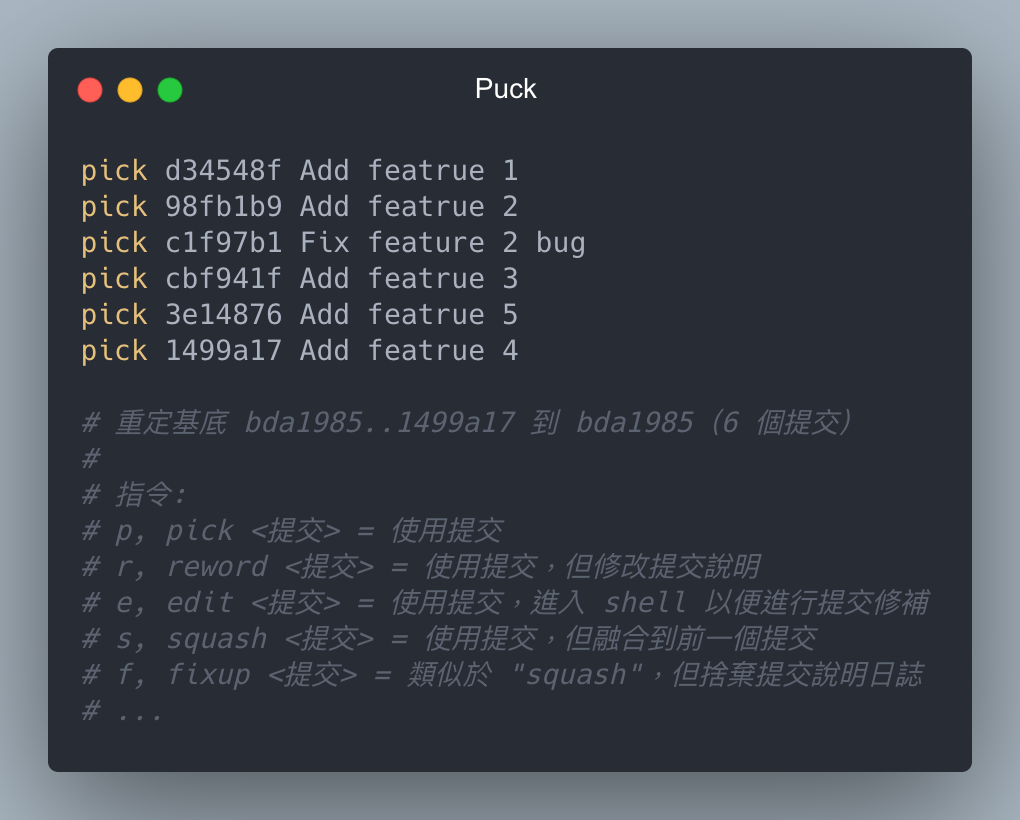
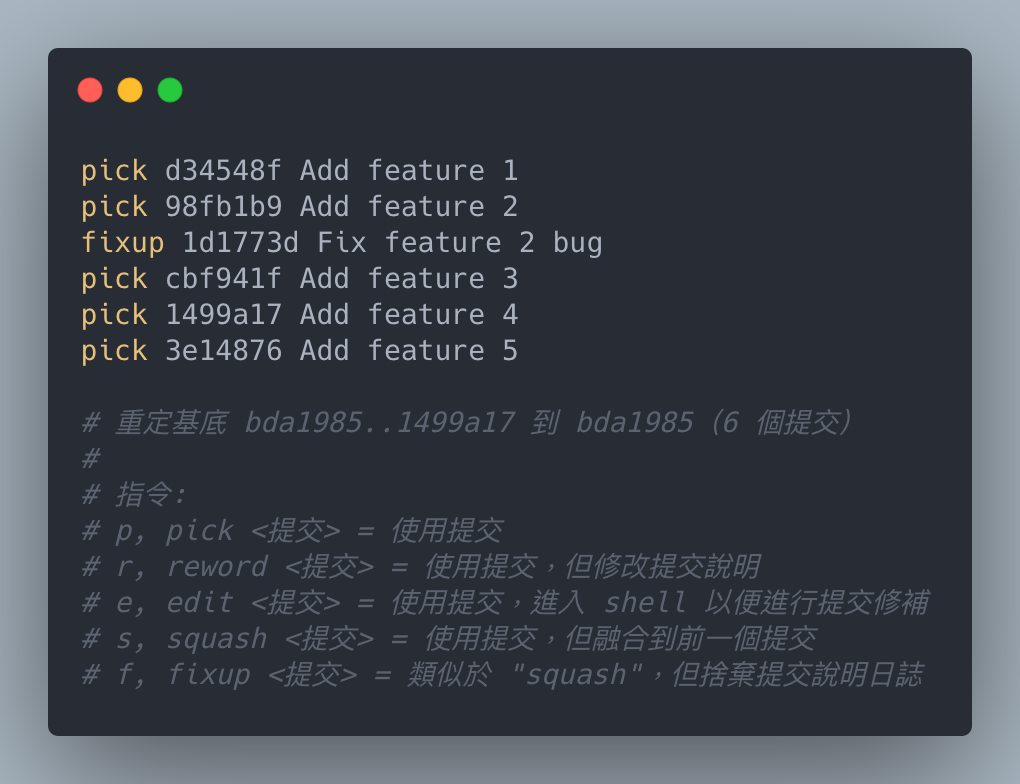
修復文章錯誤

diff --git a/content/post/2021/Use-Git-Rebase-Interactive-Mode-finishing-Commit.md b/content/post/2021/Use-Git-Rebase-Interactive-Mode-finishing-Commit.md
@@ -55,11 +55,11 @@ git rebase -i <起始 Commit>
 下半部有註解的部分，是一些指令的簡介及縮寫，使用時就可以直接參考不用去特別記它的指令及用法。
 
 ```shell
-pick d34548f Add featrue 1
-pick 98fb1b9 Add featrue 2
-pick cbf941f Add featrue 3
-pick 1499a17 Add featrue 4
-pick 3e14876 Add featrue 5
+pick d34548f Add feature 1
+pick 98fb1b9 Add feature 2
+pick cbf941f Add feature 3
+pick 1499a17 Add feature 4
+pick 3e14876 Add feature 5
 
 # 重定基底 bda1985..1499a17 到 bda1985（6 個提交）
 #
@@ -106,22 +106,22 @@ pick 3e14876 Add featrue 5
 原始的 Commit 如下：
 
 ```shell
-* c5300e9 2021-07-19 | Add featrue 6 (HEAD -> master)
-* 68e1e4c 2021-07-19 | Add featrue 5-1
-* 082a95c 2021-07-19 | Add featrue 4
-* 2ebbe30 2021-07-19 | Add featrue 5
-* e419862 2021-07-19 | Add featrue 3
-* 1d1773d 2021-07-19 | Fix featrue 2 bug
-* cfe6102 2021-07-19 | Add featrue 2
-* d34548f 2021-07-19 | Add featrue 1
-* bda1985 2021-07-19 | Init Commit [Puck Wang]
+* 655082e 2021-07-19 | Add feature 6 (HEAD)
+* 69a3e14 2021-07-19 | Add feature 5-1
+* b99b647 2021-07-19 | Add feature 4
+* b2e9250 2021-07-19 | Add feature 5
+* 8ad13c6 2021-07-19 | Add feature 3
+* c3e8936 2021-07-19 | Fix feature 2 bug
+* e4e3c6f 2021-07-19 | Add feature 2
+* 9fa7ff7 2021-07-19 | Add feature 1
+* bda1985 2021-07-19 | Init Commit
 ```
 
 需求：
 
-1. 交換 `Add featrue 4` 及 `Add featrue 5` 的順序。
-2. 合併 `Add featrue 2` 及 `Fix featrue 2 bug` (不留訊息)。
-3. 刪除 `Add featrue 5-1`
+1. 交換 `Add feature 4` 及 `Add feature 5` 的順序。
+2. 合併 `Add feature 2` 及 `Fix feature 2 bug` (不留訊息)。
+3. 刪除 `Add feature 5-1`
 
 
 #### Step 1. 執行 git rebase
@@ -135,67 +135,67 @@ git rebase -i bda1985
 執行後，將顯示以下資訊
 
 ```shell
-pick d34548f Add featrue 1
-pick cfe6102 Add feature 2
-pick 1d1773d Fix feature 2 bug
-pick e419862 Add featrue 3
-pick 2ebbe30 Add featrue 5
-pick 082a95c Add featrue 4
-pick 68e1e4c Add feature 5-1
-pick c5300e9 Add feature 6
+pick 9fa7ff7 Add feature 1
+pick e4e3c6f Add feature 2
+pick c3e8936 Fix feature 2 bug
+pick 8ad13c6 Add feature 3
+pick b2e9250 Add feature 5
+pick b99b647 Add feature 4
+pick 69a3e14 Add feature 5-1
+pick 655082e Add feature 6
 
-# 重定基底 bda1985..c5300e9 到 bda1985（8 個提交）
+# 重定基底 bda1985..655082e 到 bda1985（8 個提交）
 # ...
 ```
 
-#### Step 2. 交換 `Add featrue 4` 及 `Add featrue 5` 的順序
+#### Step 2. 交換 `Add feature 4` 及 `Add feature 5` 的順序
 
-直接將 `Add featrue 4` 及 `Add featrue 5` 兩行交換順序。
-
-```shell
-pick d34548f Add featrue 1
-pick cfe6102 Add feature 2
-pick 1d1773d Fix feature 2 bug
-pick e419862 Add featrue 3
-pick 082a95c Add featrue 4
-pick 2ebbe30 Add featrue 5
-pick 68e1e4c Add feature 5-1
-pick c5300e9 Add feature 6
-
-# 重定基底 bda1985..c5300e9 到 bda1985（8 個提交）
-```
-
-#### Step 3. 合併 `Add featrue 2` 及 `Fix featrue 2 bug`
-
-為了將 `Fix featrue 2 bug` 合併至 `Add featrue 2`，更改 `Fix featrue 2 bug` 的指令為 `fixup` (與上一個合併但不保留訊息)。
+直接將 `Add feature 4` 及 `Add feature 5` 兩行交換順序。
 
 ```shell
-pick d34548f Add featrue 1
-pick cfe6102 Add feature 2
-fixup 1d1773d Fix feature 2 bug
-pick e419862 Add featrue 3
-pick 082a95c Add featrue 4
-pick 2ebbe30 Add featrue 5
-pick 68e1e4c Add feature 5-1
-pick c5300e9 Add feature 6
+pick 9fa7ff7 Add feature 1
+pick e4e3c6f Add feature 2
+pick c3e8936 Fix feature 2 bug
+pick 8ad13c6 Add feature 3
+pick b99b647 Add feature 4
+pick b2e9250 Add feature 5
+pick 69a3e14 Add feature 5-1
+pick 655082e Add feature 6
 
-# 重定基底 bda1985..c5300e9 到 bda1985（8 個提交）
+# 重定基底 bda1985..655082e 到 bda1985（8 個提交）
 ```
 
-#### Step 4. 刪除 `Add featrue 5-1`
+#### Step 3. 合併 `Add feature 2` 及 `Fix feature 2 bug`
+
+為了將 `Fix feature 2 bug` 合併至 `Add feature 2`，更改 `Fix feature 2 bug` 的指令為 `fixup` (與上一個合併但不保留訊息)。
+
+```shell
+pick 9fa7ff7 Add feature 1
+pick e4e3c6f Add feature 2
+fixup c3e8936 Fix feature 2 bug
+pick 8ad13c6 Add feature 3
+pick b99b647 Add feature 4
+pick b2e9250 Add feature 5
+pick 69a3e14 Add feature 5-1
+pick 655082e Add feature 6
+
+# 重定基底 bda1985..655082e 到 bda1985（8 個提交）
+```
+
+#### Step 4. 刪除 `Add feature 5-1`
 
 因為要刪除 `Add feature 5-1` 這個 Commit，所以將這一行直接移除。
 
 ```shell
-pick d34548f Add featrue 1
-pick cfe6102 Add feature 2
-fixup 1d1773d Fix feature 2 bug
-pick e419862 Add featrue 3
-pick 082a95c Add featrue 4
-pick 2ebbe30 Add featrue 5
-pick c5300e9 Add feature 6
+pick 9fa7ff7 Add feature 1
+pick e4e3c6f Add feature 2
+fixup c3e8936 Fix feature 2 bug
+pick 8ad13c6 Add feature 3
+pick b99b647 Add feature 4
+pick b2e9250 Add feature 5
+pick 655082e Add feature 6
 
-# 重定基底 bda1985..c5300e9 到 bda1985（8 個提交）
+# 重定基底 bda1985..655082e 到 bda1985（8 個提交）
 ```
 
 #### Step 5. 套用 Rebase 指令
@@ -205,12 +205,12 @@ pick c5300e9 Add feature 6
 執行結果如下，可以看到已完成上面列的需求。
 
 ```shell
-* 29e3dbe 2021-07-19 | Add feature 6 (HEAD -> master)
-* cafd7d8 2021-07-19 | Add featrue 5
-* 52498d2 2021-07-19 | Add featrue 4
-* 8d5330e 2021-07-19 | Add featrue 3
-* 348cd4c 2021-07-19 | Add feature 2
-* d34548f 2021-07-19 | Add featrue 1
+* 31d6978 2021-07-19 | Add feature 6 (HEAD -> master)
+* 5e4f588 2021-07-19 | Add feature 5
+* 04b8a95 2021-07-19 | Add feature 4
+* 17fc05f 2021-07-19 | Add feature 3
+* a30783f 2021-07-19 | Add feature 2
+* 9fa7ff7 2021-07-19 | Add feature 1
 * bda1985 2021-07-19 | Init Commit
 ```
 
